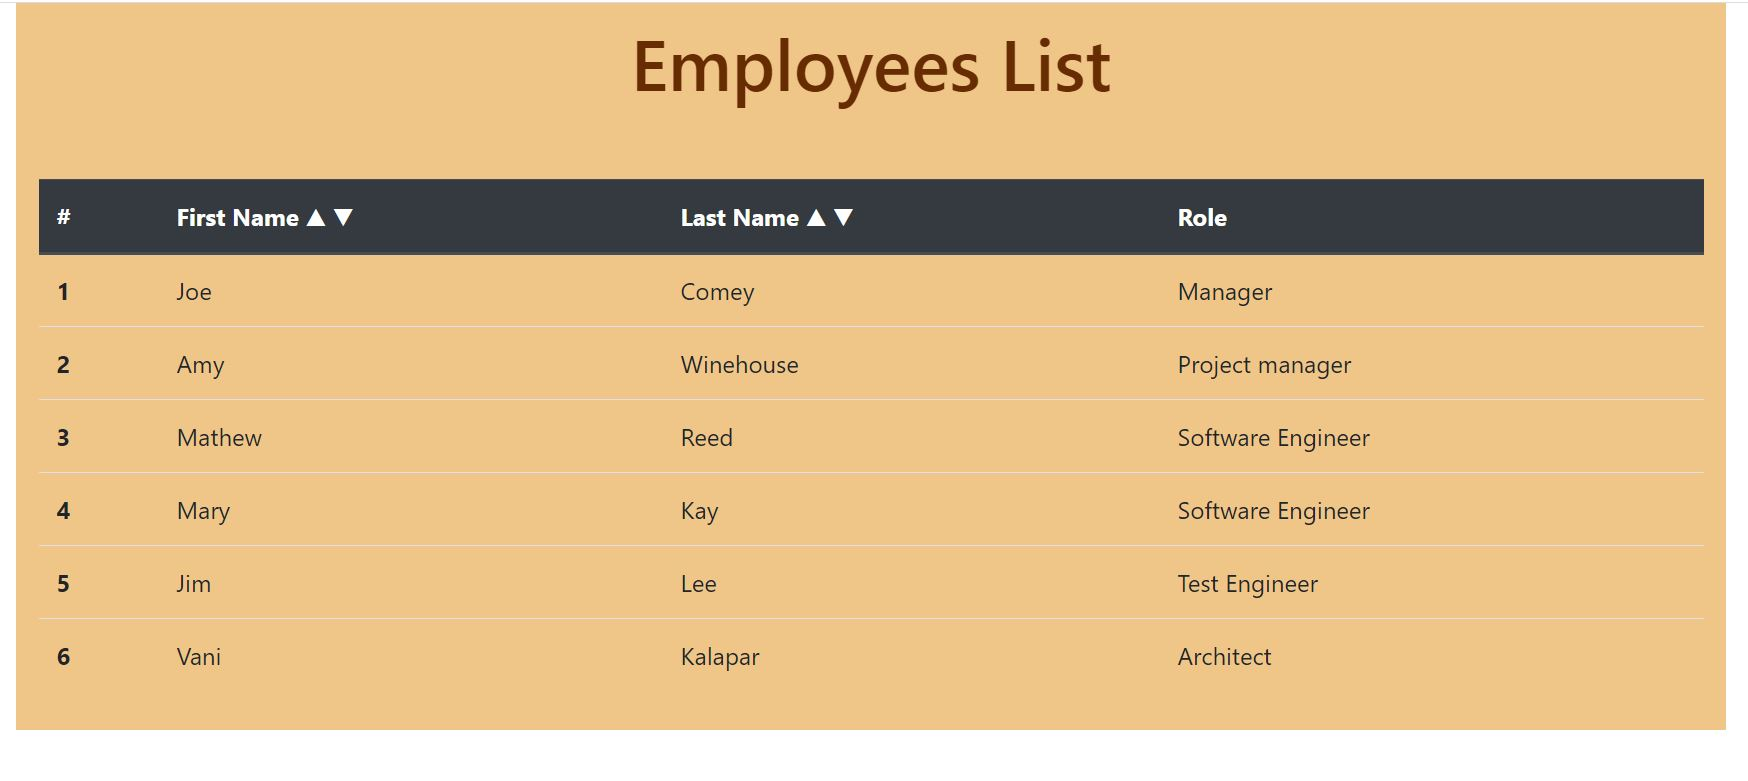
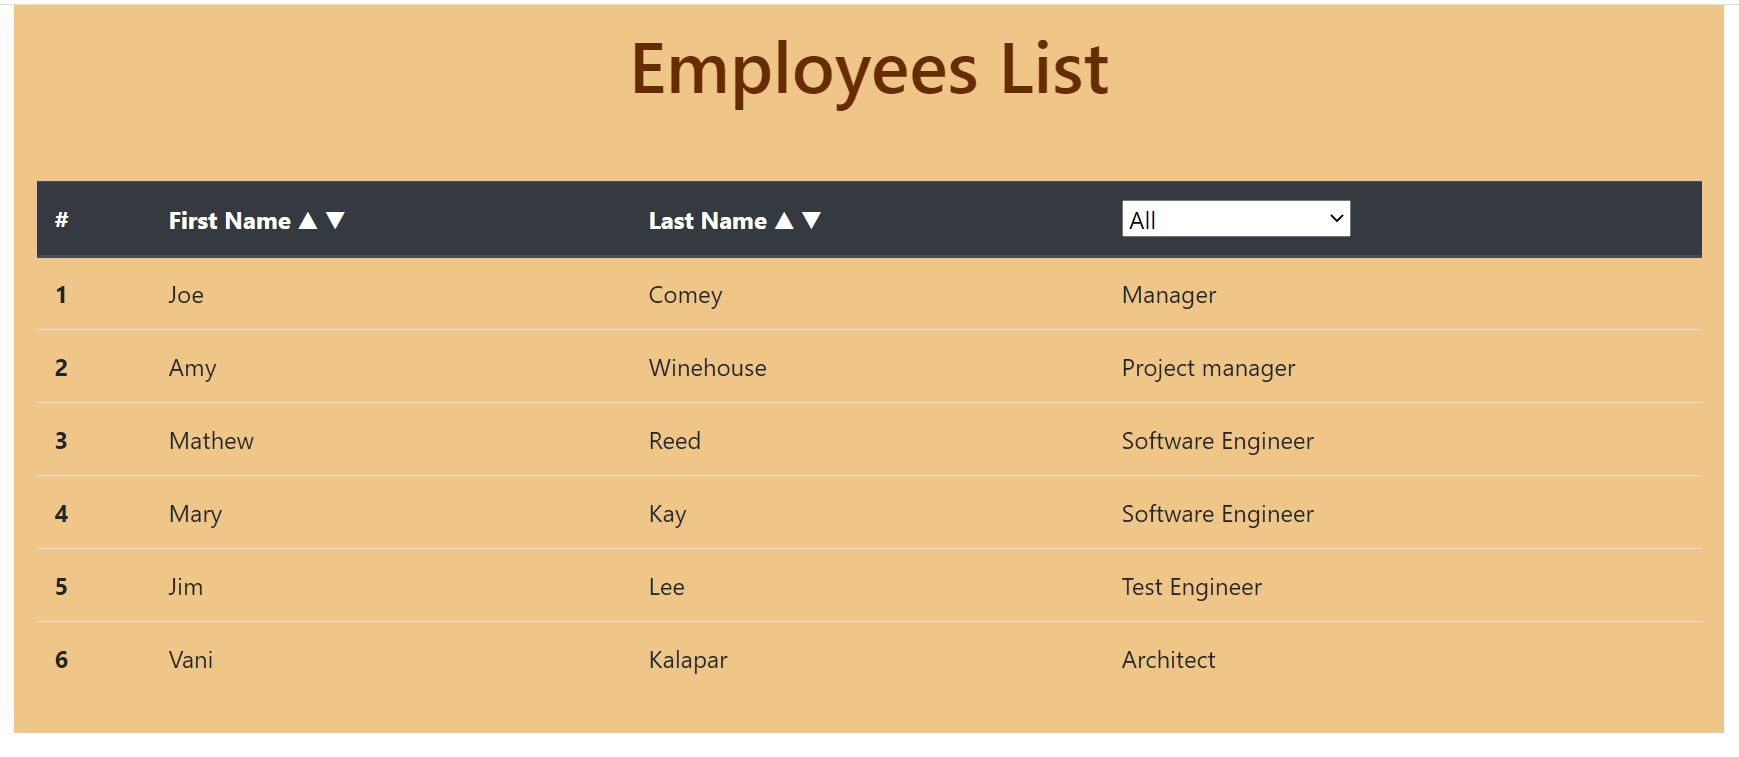
Added seelct-options for role to filtered search

diff --git a/src/App.js b/src/App.js
@@ -9,7 +9,16 @@ class App extends Component {
   state = {
     show: false,
     empid: 0,
-    employees
+    employees,
+    roles: []
+  }
+
+  componentDidMount() {
+    let roleArray = [];
+    this.state.employees.forEach(emp => {
+      roleArray.push(emp.role);
+    });
+    this.setState({ roles: [...new Set(roleArray)]});
   }
 
   // Sort the employees by first name
@@ -83,6 +92,16 @@ class App extends Component {
     this.setState({ show: false });
   };
 
+  showOnlyOfRole = (value) => {
+    // console.log("Show only Role based: " + value);
+    let allEmployees = employees;
+    this.setState({ employees: allEmployees });
+    if ( value !== "All" ) {
+      const newEmpList = allEmployees.filter(emp => emp.role === value);
+      this.setState({ employees: newEmpList });
+    }
+  };
+
   render() {
     return (
       <Container>
@@ -90,10 +109,12 @@ class App extends Component {
         {!this.state.show && (
           <EmployeeTable
             employees={this.state.employees}
+            roles={this.state.roles}
             sortByFirstNameAscend={this.sortByFirstNameAscend}
             sortByFirstNameDesc={this.sortByFirstNameDesc}
             sortByLastNameAscend={this.sortByLastNameAscend}
             sortByLastNameDesc={this.sortByLastNameDesc}
+            showOnlyOfRole={this.showOnlyOfRole}
             sortById={this.sortById}
             showCard={this.showCard}
           />

diff --git a/src/components/EmployeesTable/index.js b/src/components/EmployeesTable/index.js
@@ -15,7 +15,18 @@ function EmployeesTable(props) {
             <span className="sort" onClick={() => props.sortByLastNameAscend()}> &#9650; </span>
             <span className="sort" onClick={() => props.sortByLastNameDesc()}> &#9660; </span>
           </th>
-          <th scope="col" key="role"> Role </th>
+          <th scope="col" key="role"> 
+          <div>
+              <div> 
+                <select onChange={(event) => props.showOnlyOfRole(event.target.value)}>
+                  <option value="All" key="all" >All</option>
+                  {props.roles.map(role => (
+                    <option value={role} key={role}>{role}</option>
+                  ))}
+                </select>
+              </div>
+            </div>
+          </th>
           {/* <th scope="col" key="phone">Phone</th>
           <th scope="col" key="email">Email</th> */}
         </tr>
